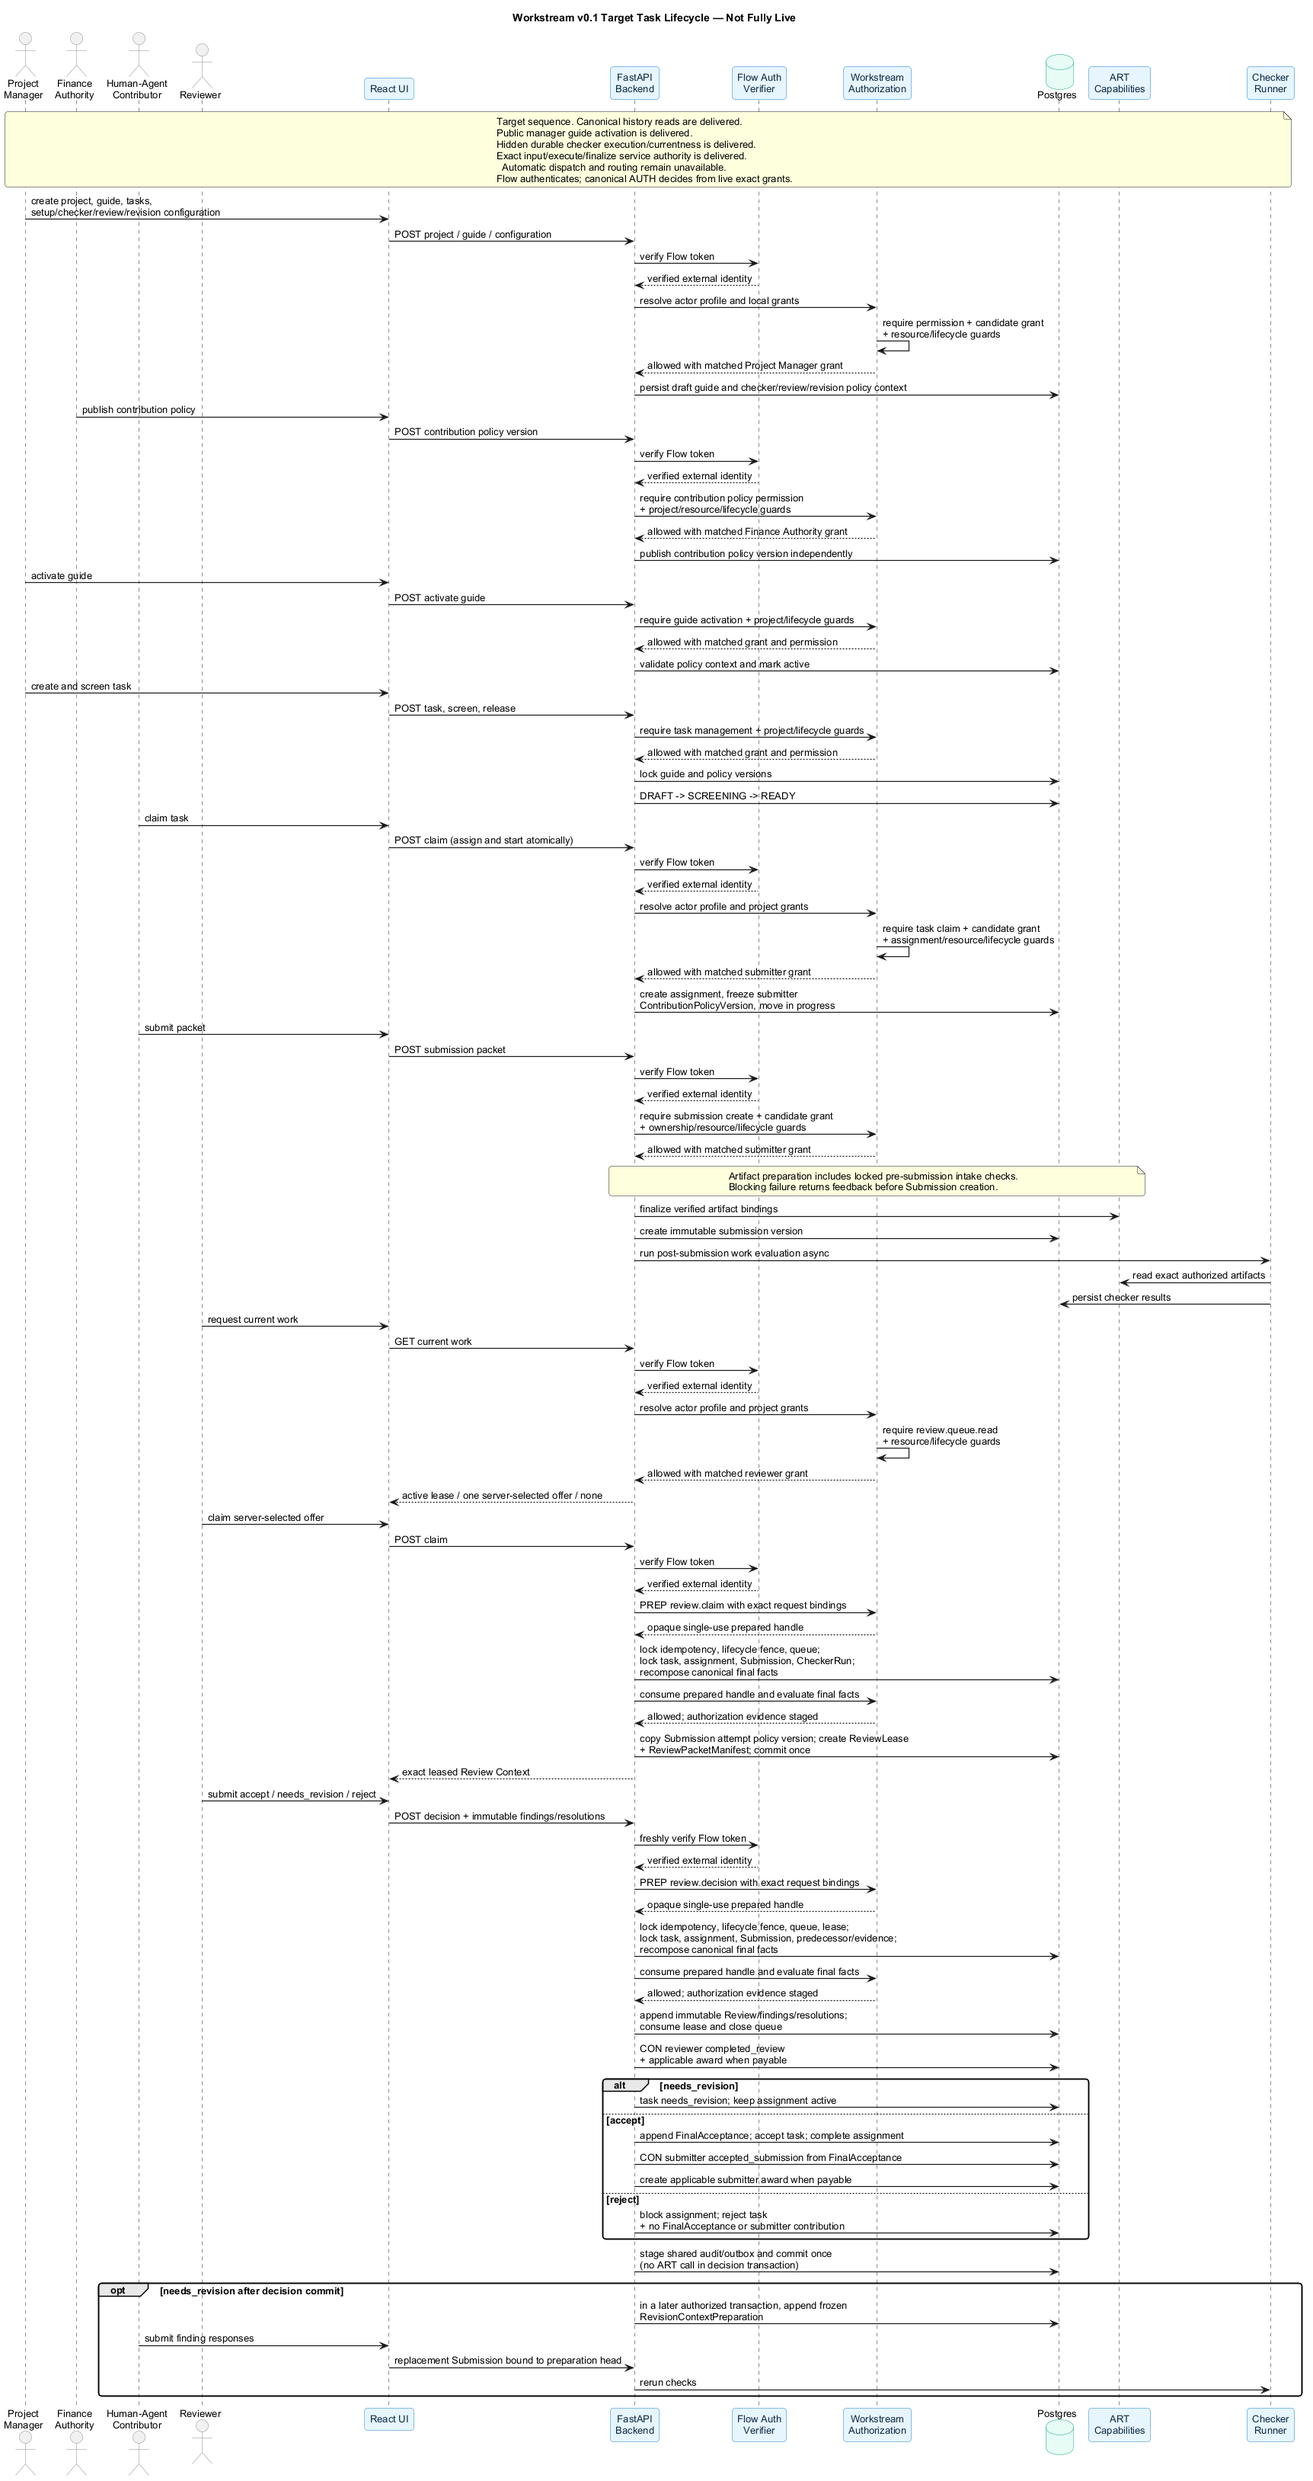
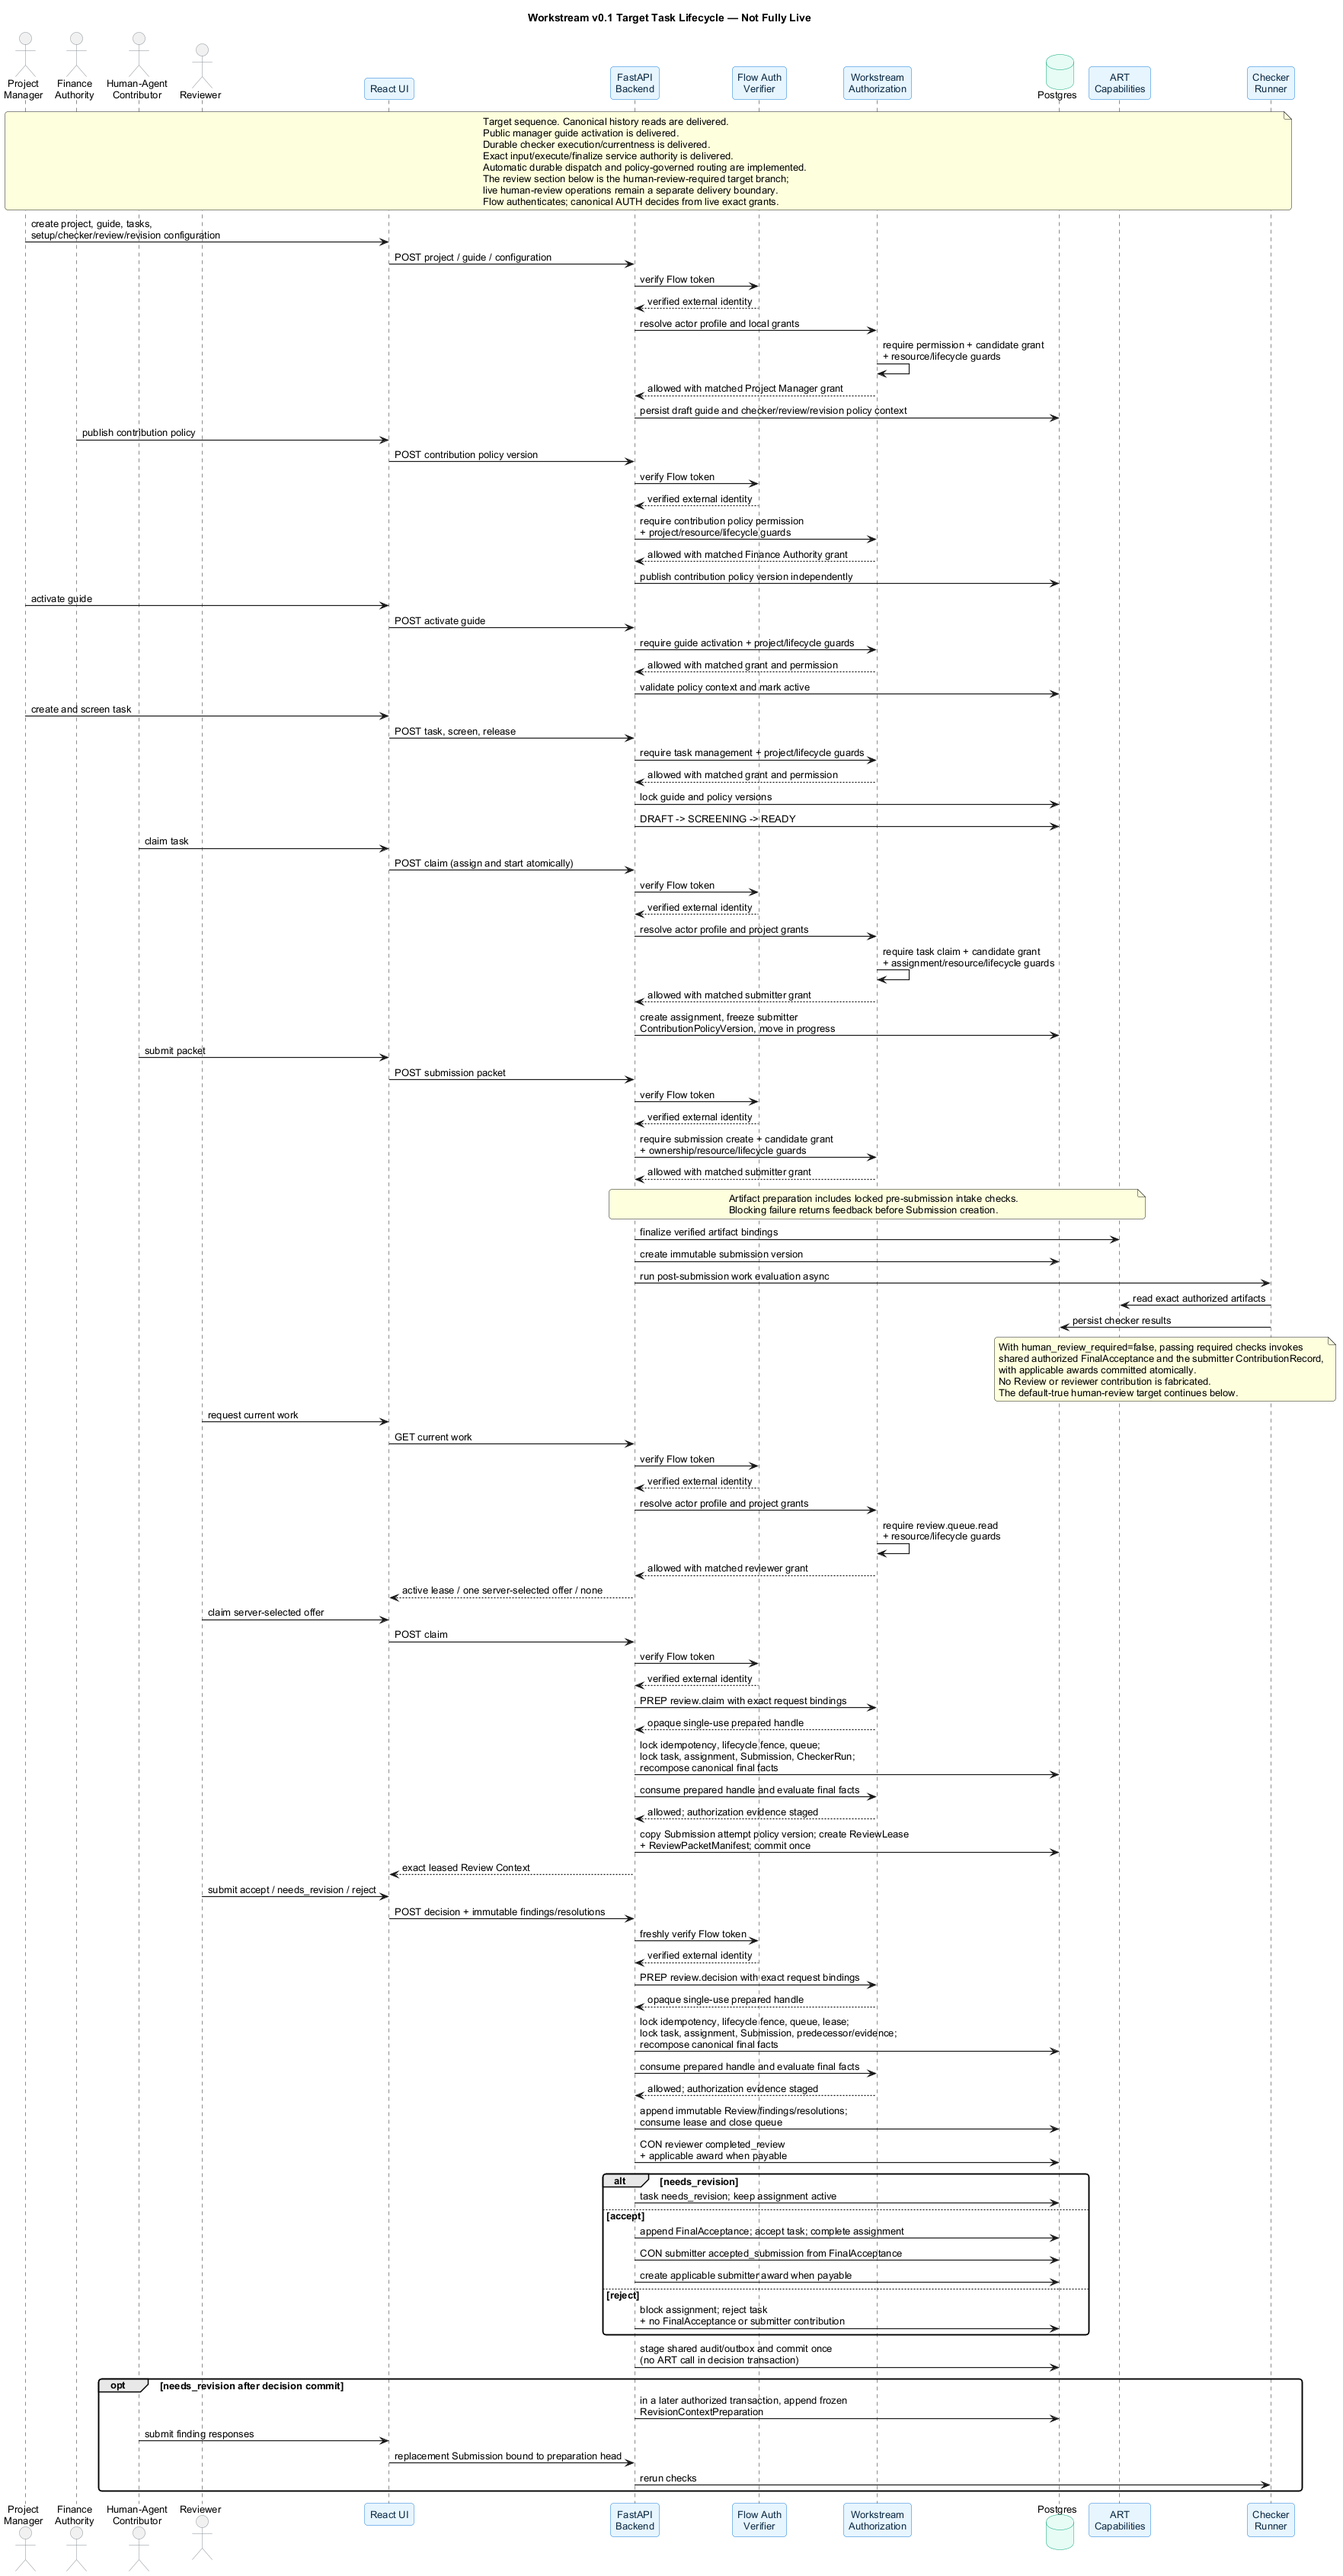
Correct claim navigation and routing diagram scope

diff --git a/.commitrail/initiatives/WS-CLI-001/OVERVIEW.md b/.commitrail/initiatives/WS-CLI-001/OVERVIEW.md
@@ -40,7 +40,7 @@
   [WS-CLI-001-34](WS-CLI-001-34.md), exact-project task audit context and bounded cursor-based evidence reads;
   [WS-CLI-001-35](WS-CLI-001-35.md), deliberate exact-source manager revision-context repair;
   [WS-CLI-001-36](WS-CLI-001-36.md), status-only Operator task browsing,
-  exact locked-context inspection and explicit reasoned start override;
+  exact locked-context inspection; claim now starts contributor work atomically;
   [WS-CLI-001-38](WS-CLI-001-38.md), keyed human guide sufficiency diagnostics
   and eligible warning acknowledgement through existing public POSTs;
   [WS-CLI-001-41](WS-CLI-001-41.md), explicit manual artifact-policy draft
@@ -216,7 +216,7 @@ revision-context presentation correction.
 | [#606](https://github.com/Flow-Research/workstream/issues/606) | Actor/admin authority inspection — delivered by [WS-CLI-001-28](WS-CLI-001-28.md) | 6 |
 | [#607](https://github.com/Flow-Research/workstream/issues/607) | Actor/identity lifecycle and administrative writes | 8 |
 | [#608](https://github.com/Flow-Research/workstream/issues/608) | External-checker registry and explicit retry, delivered by [WS-CLI-001-29](WS-CLI-001-29.md) | 4 |
-| [#609](https://github.com/Flow-Research/workstream/issues/609) | Operator task inspection/start override, delivered by [WS-CLI-001-36](WS-CLI-001-36.md) | 3 |
+| [#609](https://github.com/Flow-Research/workstream/issues/609) | Operator task inspection, delivered by [WS-CLI-001-36](WS-CLI-001-36.md); the historical baseline included the now-removed start override | 3 historical / 2 current |
 | [#610](https://github.com/Flow-Research/workstream/issues/610) | Task audit context/evidence — delivered by [WS-CLI-001-34](WS-CLI-001-34.md) | 2 |
 | [#611](https://github.com/Flow-Research/workstream/issues/611) | Artifact Operator inspection/recovery CLI in [WS-CLI-001-43](WS-CLI-001-43.md), consuming the exact-authorized backend prerequisite [AUTH-ART-02D-OPERATOR](../WS-AUTH-001/WS-AUTH-001-ART02DOPERATOR.md) | 9 |
 
@@ -386,8 +386,8 @@ CLIs. Keep the package independent of backend and MCP runtime dependencies.
    detail, passing opaque continuation unchanged without automatic pagination.
 5. **WS-CLI-001-05:** Discover one ready-task page and inspect contributor
    instructions through public reads, without management metadata or task writes.
-6. **WS-CLI-001-06:** Claim ready work and start the caller's assignment through
-   public POSTs with caller-supplied keys, exact response validation and explicit
+6. **WS-CLI-001-06:** Claim ready work through one public POST that assigns
+   and starts work atomically, with caller-supplied keys, exact response validation and explicit
    uncertain outcomes. No local authority decisions or operator override.
 7. **WS-CLI-001-07:** Inspect contributor work context and exact submission
    requirements through public reads. Preserve historical selectors, server
